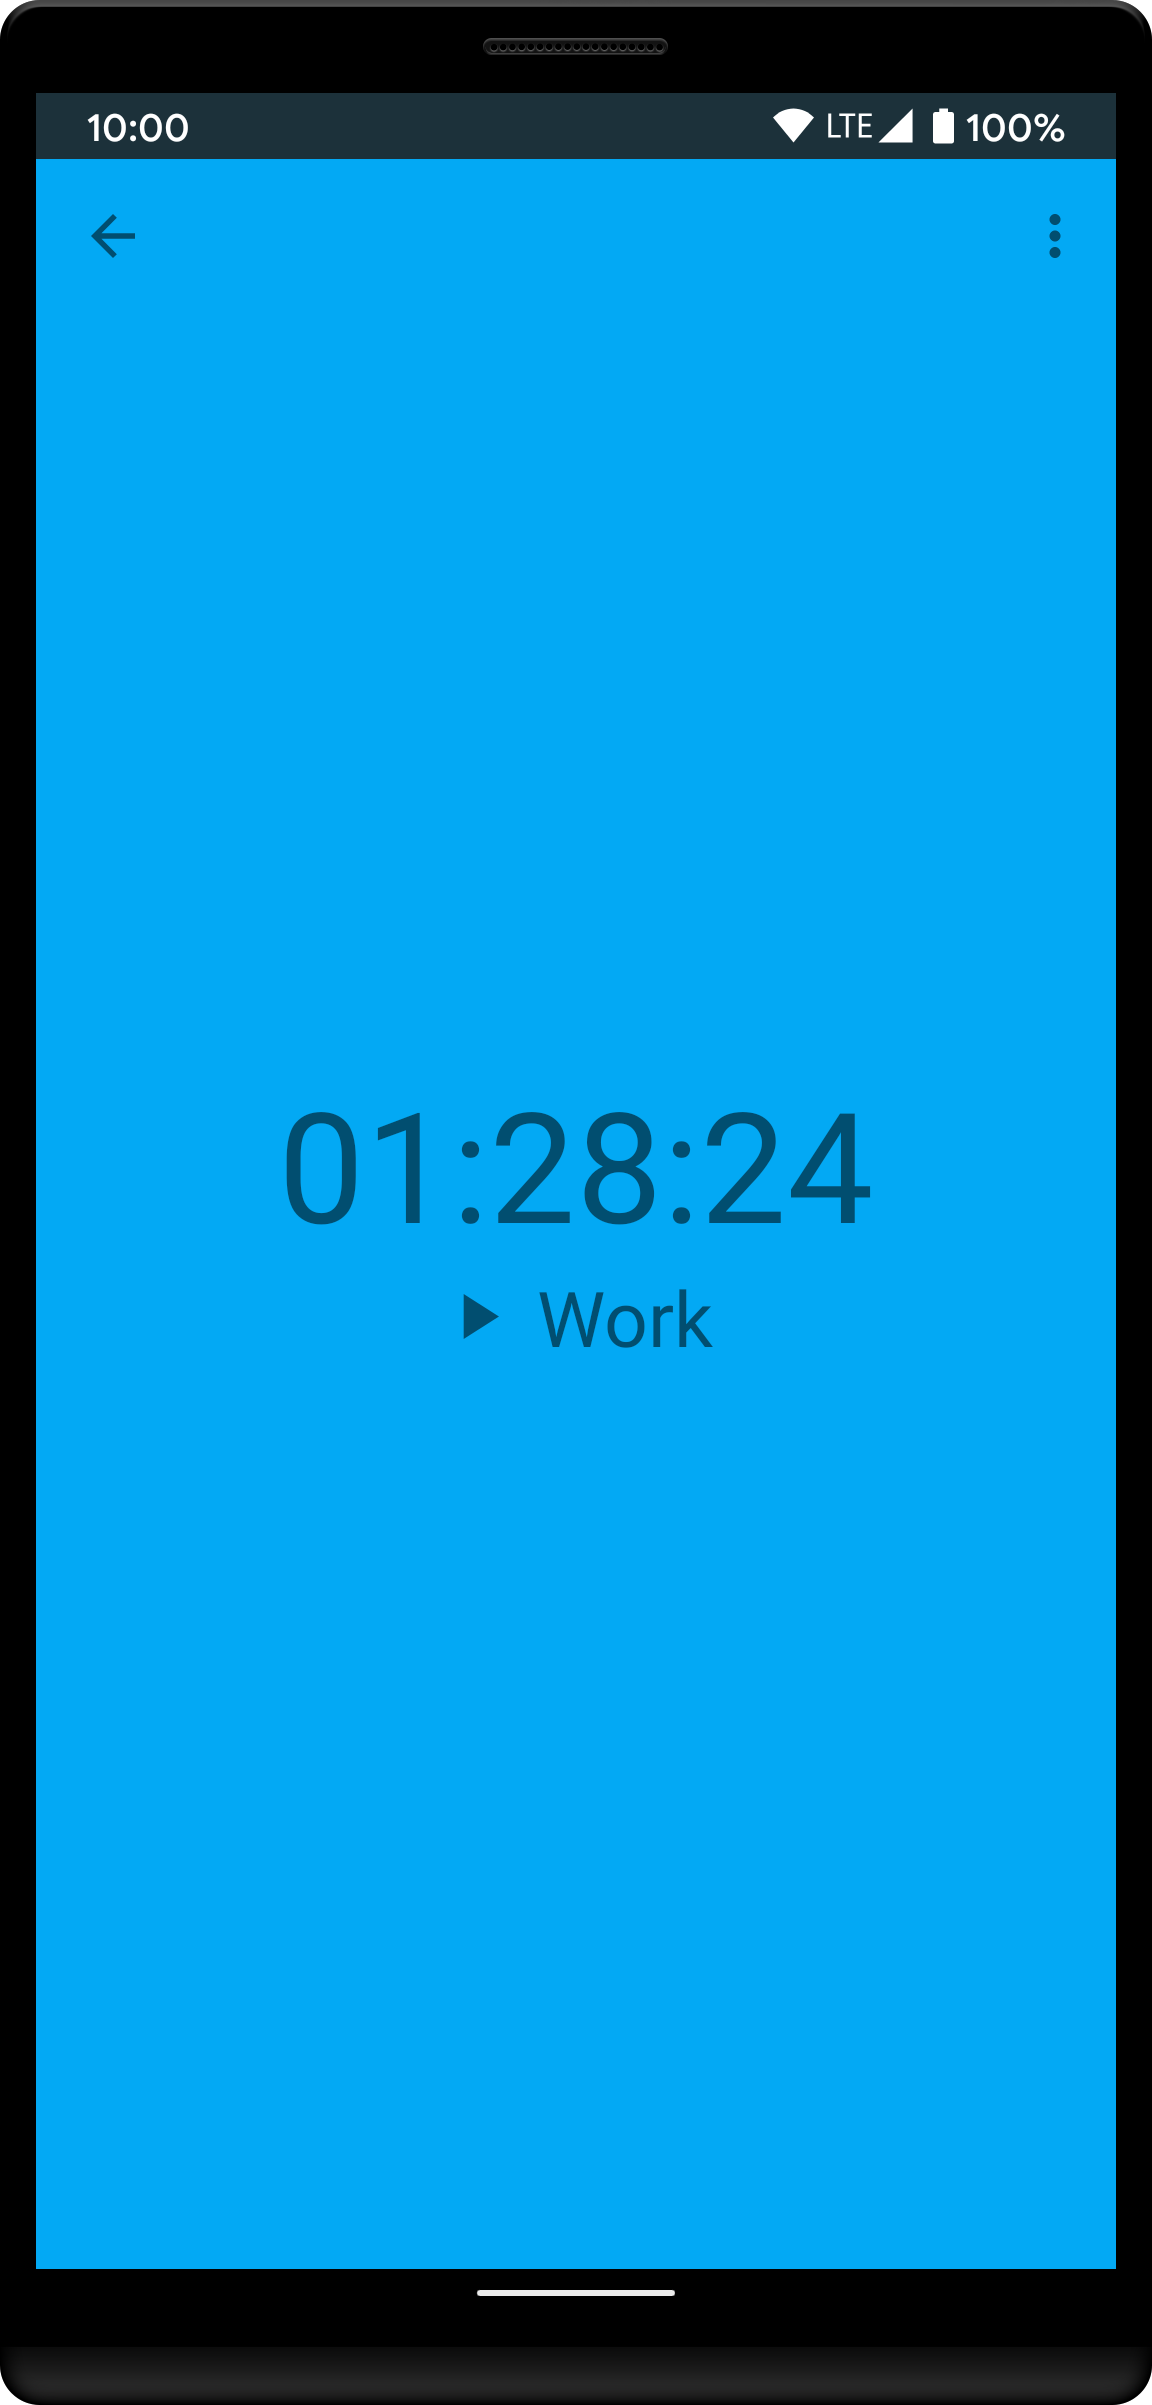
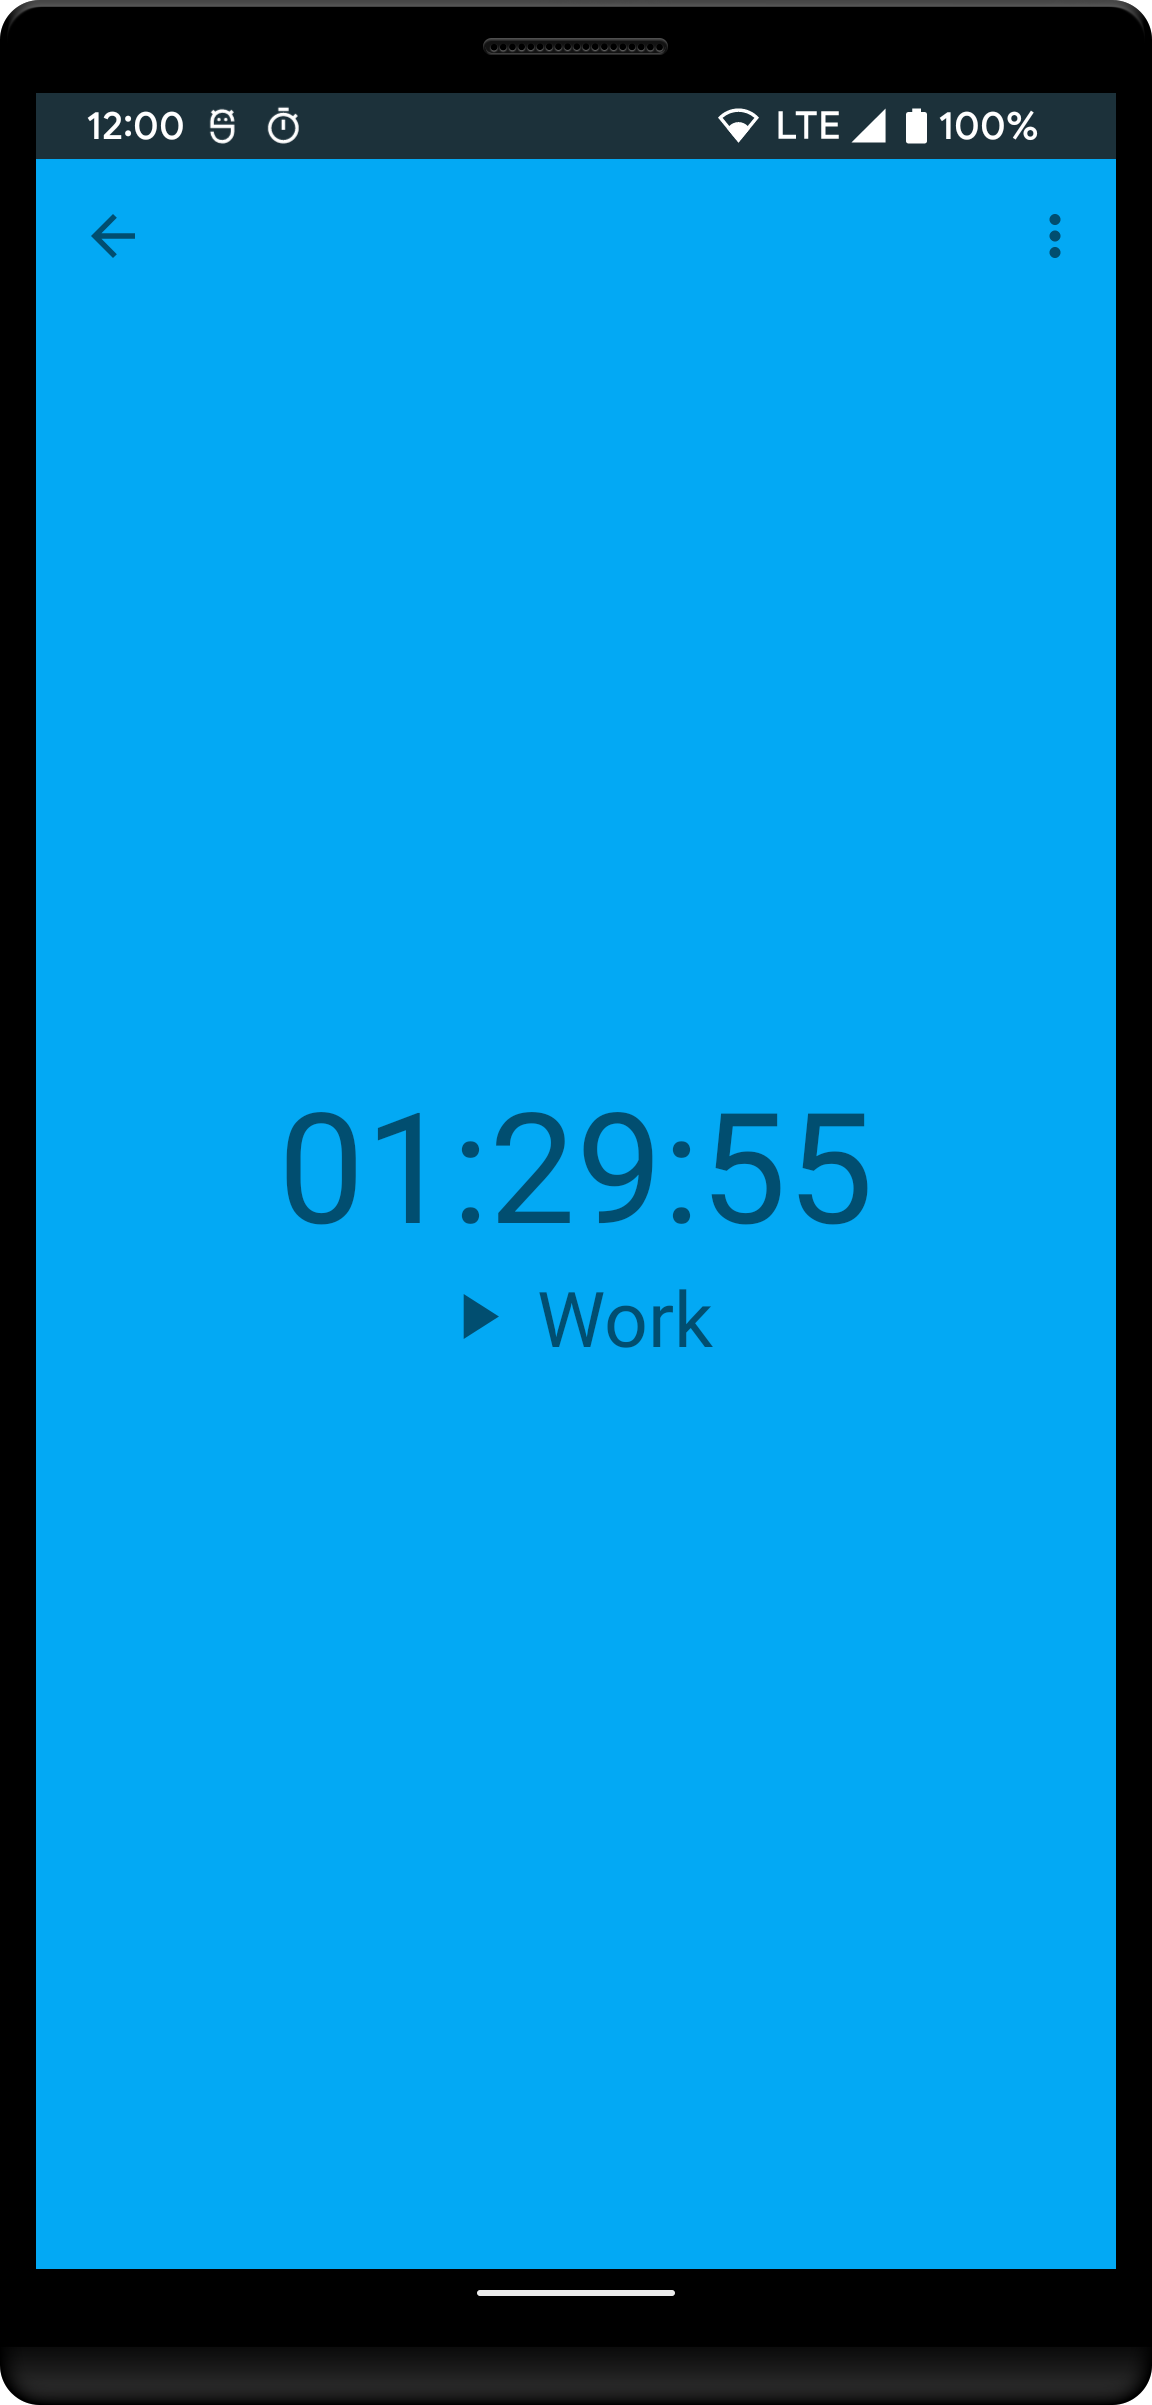
[Screenshots] Update screenshot with latest app version

diff --git a/base/src/main/java/fr/bowser/behaviortracker/timer/TimerDaoUA.kt b/base/src/main/java/fr/bowser/behaviortracker/timer/TimerDaoUA.kt
@@ -4,6 +4,7 @@ import android.content.Context
 import fr.bowser.behaviortracker.R
 import fr.bowser.behaviortracker.utils.ColorUtils
 import java.util.ArrayList
+import java.util.concurrent.TimeUnit
 
 class TimerDaoUA(context: Context) : TimerDAO {
 
@@ -18,7 +19,7 @@ class TimerDaoUA(context: Context) : TimerDAO {
                 context.resources.getString(R.string.release_screenshot_timer_work),
                 color1,
                 0,
-                0,
+                System.currentTimeMillis() - TimeUnit.HOURS.toMillis(3),
                 0
             )
         )
@@ -30,7 +31,7 @@ class TimerDaoUA(context: Context) : TimerDAO {
                 context.resources.getString(R.string.release_screenshot_timer_transport),
                 color2,
                 0,
-                0,
+                System.currentTimeMillis() - TimeUnit.HOURS.toMillis(2),
                 1
             )
         )
@@ -42,7 +43,7 @@ class TimerDaoUA(context: Context) : TimerDAO {
                 context.resources.getString(R.string.release_screenshot_timer_sport),
                 color3,
                 0,
-                0,
+                System.currentTimeMillis() - TimeUnit.HOURS.toMillis(1),
                 2
             )
         )
@@ -54,7 +55,7 @@ class TimerDaoUA(context: Context) : TimerDAO {
                 context.resources.getString(R.string.release_screenshot_timer_cooking),
                 color4,
                 0,
-                0,
+                System.currentTimeMillis() - TimeUnit.HOURS.toMillis(4),
                 3
             )
         )
@@ -66,7 +67,7 @@ class TimerDaoUA(context: Context) : TimerDAO {
                 context.resources.getString(R.string.release_screenshot_timer_watch_series),
                 color5,
                 0,
-                0,
+                    System.currentTimeMillis() - TimeUnit.HOURS.toMillis(5),
                 4
             )
         )
